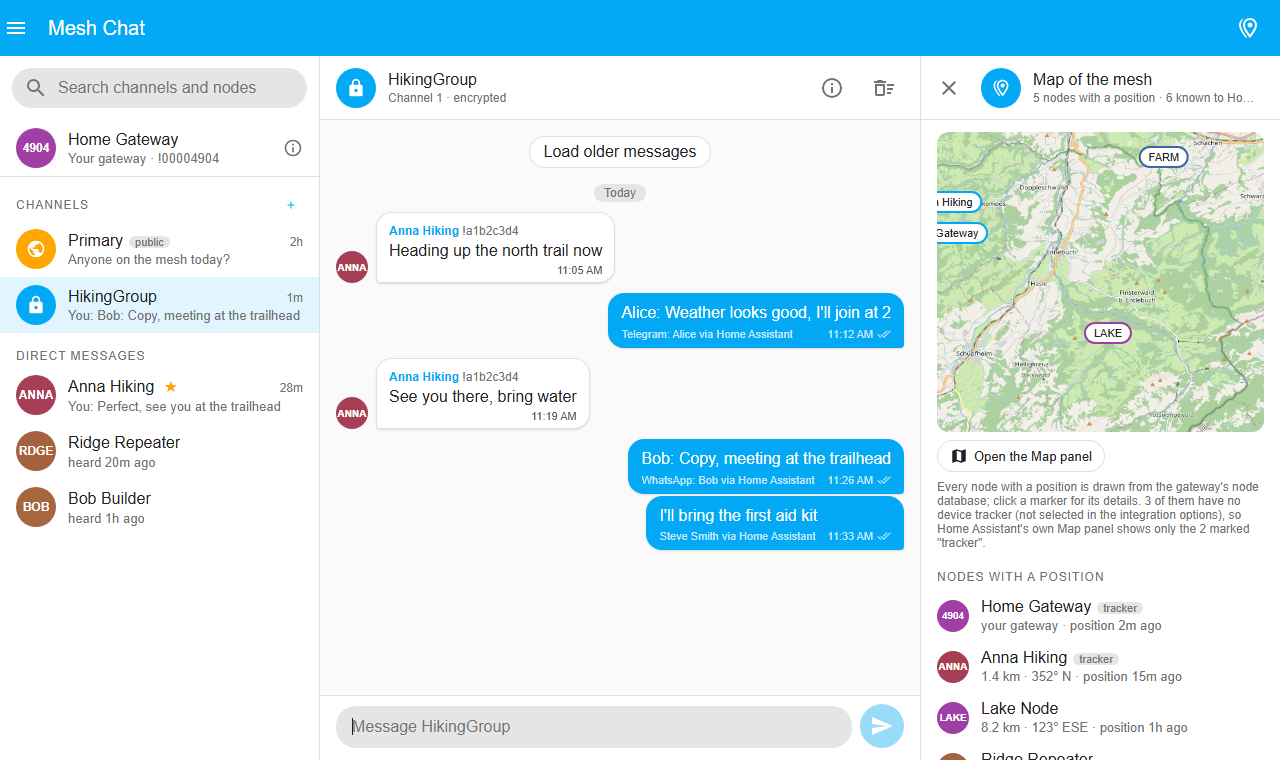
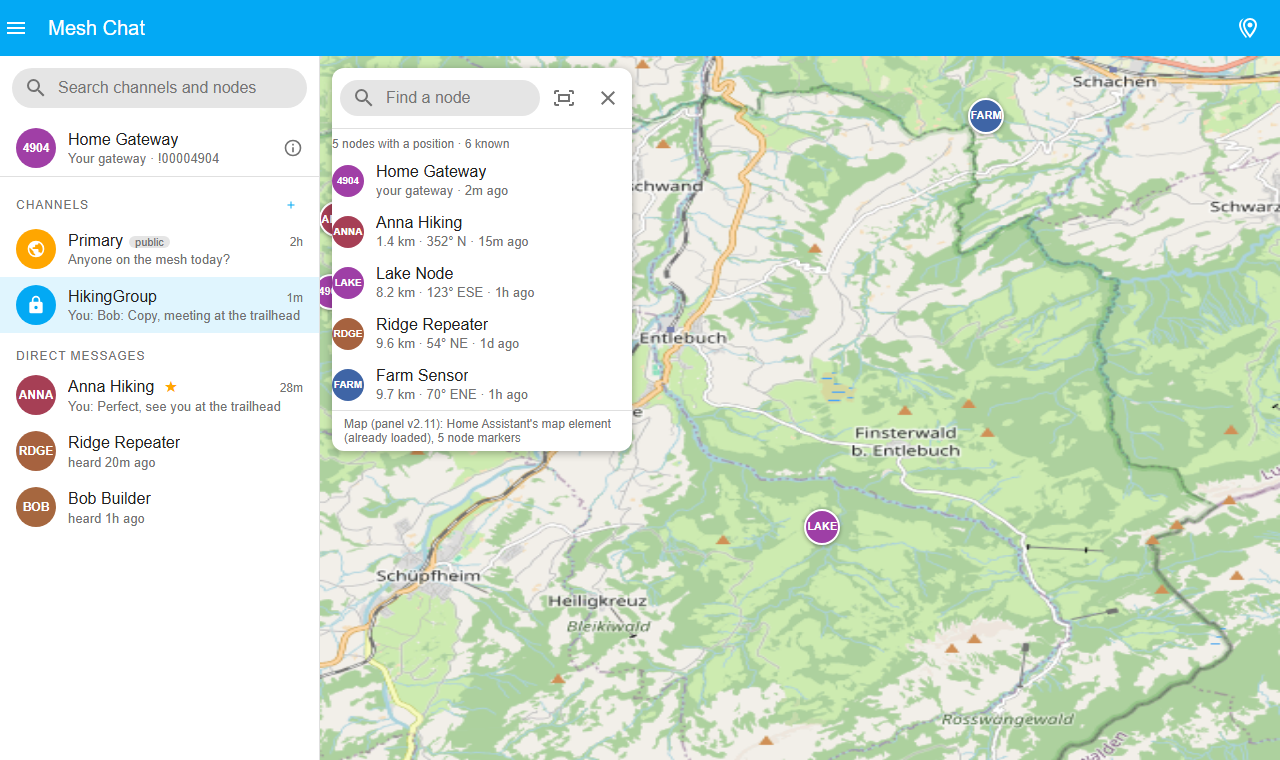
README: describe the map view

diff --git a/README.md b/README.md
@@ -411,17 +411,17 @@ Assistant log with the user's name.
 - **Your gateway**: the row above the channels is the connected node itself. It opens the same details pane with a
   *Gateway* section on top: Home Assistant entry, firmware, hardware, role, region, modem preset, hop limit, TX
   power, MQTT, and how many channels and nodes it has.
-- **Map of the mesh**: the map button in the toolbar opens a view with Home Assistant's map showing every node
-  that reported a position to the gateway, and the same nodes as a list sorted by distance from the gateway with
-  the position age. Click a marker or a row to open the node's details.
+- **Map of the mesh**: the map button in the toolbar replaces the conversation with a full-size map of every node
+  that reported a position, drawn with Home Assistant's map engine but the chat's own markers (short name on a
+  coloured circle, full name on hover). The overlay lists the nodes sorted by distance from the gateway with a search
+  box; a row centres the map on that node, a marker opens its details, and the fit button shows the whole mesh
+  again. *Open the map* in a node's details opens this view centred on the node.
 
-<p align="center"><img src="docs/mesh-chat/map.png" width="800" alt="Map view: the gateway row at the top of the list, the embedded map with markers for all nodes, and the list of nodes with a position"></p>
+<p align="center"><img src="docs/mesh-chat/map.png" width="800" alt="Map view: full-size map with the chat's own node markers and an overlay listing the nodes with a position"></p>
 
-The map is Home Assistant's own map element. Nodes with a `device_tracker` entity (marked *tracker* in the list)
-are drawn by Home Assistant itself and clustered when they overlap; all other nodes are added as markers from the
-gateway's node database, so they appear here but not in Home Assistant's Map panel or automations. Turn on
-**Track every node with a position** in the Mesh Chat options to give every node that reported a position a device
-and a tracker: the Map panel, the map card and automations then see the whole mesh, and the chat map clusters them.
+Nodes with a `device_tracker` entity (marked *tracker* in the list) are the ones Home Assistant's own Map panel and
+automations know as well. Turn on **Track every node with a position** in the Mesh Chat options to give every node
+that reported a position a device and a tracker, so the Map panel and the map card see the whole mesh too.
 
 ### Options
 
